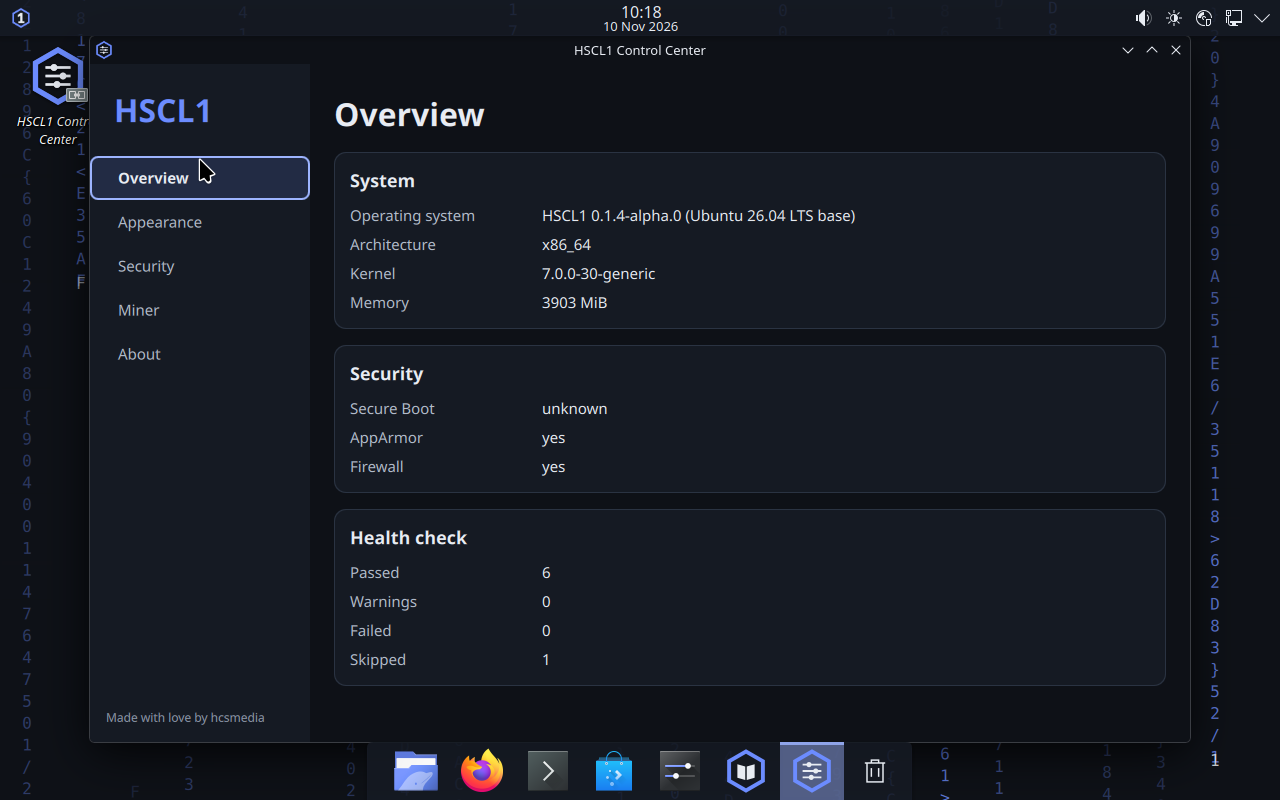
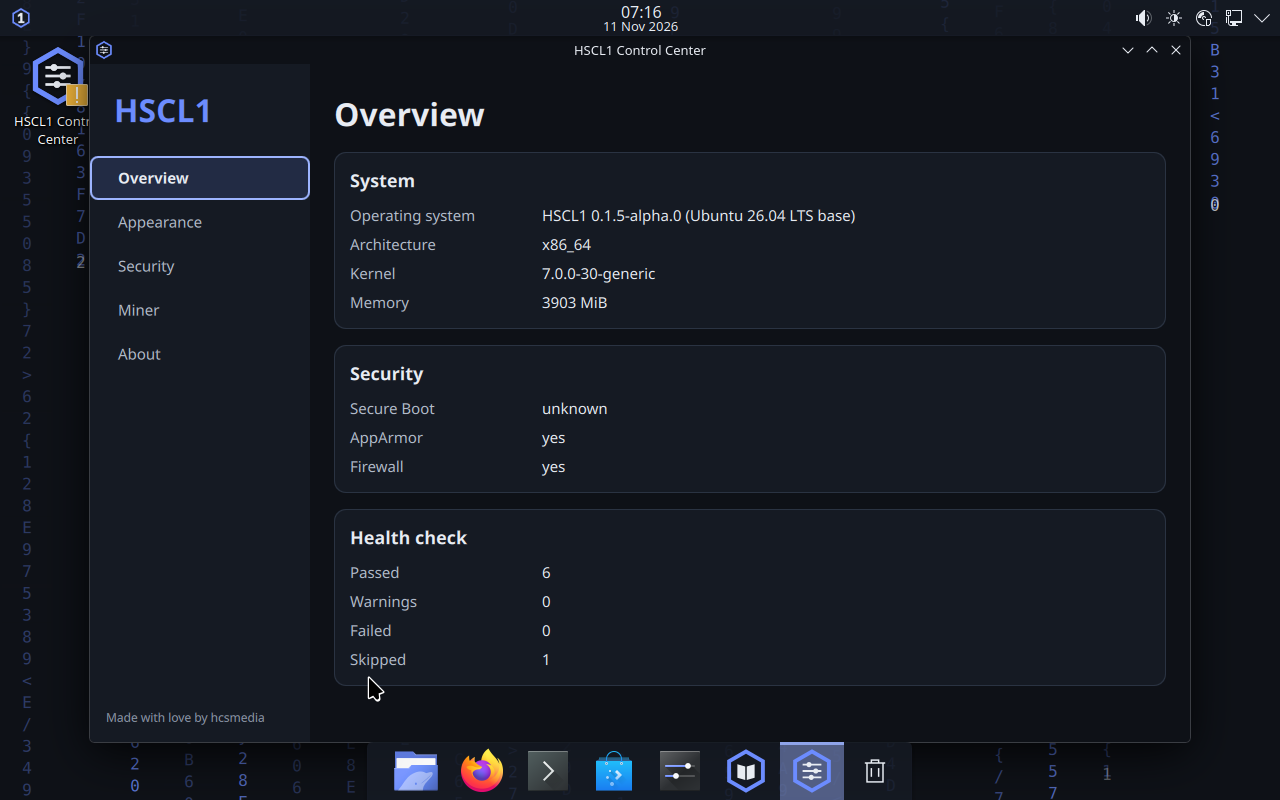
docs: rc8 shows the fixed Miner page; Control Center showcase refreshed

diff --git a/docs/AUTONOMOUS_QUEUE.md b/docs/AUTONOMOUS_QUEUE.md
@@ -62,7 +62,7 @@ booted-artifact evidence missing).
 | Q-57 | Wallpaper preset switching may not take effect: `grid` and `rain` captures render as **starfield** | four visibly different frames from one boot | **CLOSED 2026-11-11** - one rc3 boot, four shots after `hscl appearance wallpaper set` with the real preset ids: aurora 70 293 B / 7 168 colours, starfield 47 377 / 6 064, grid pulse 53 912 / 6 114, midnight rain 182 660 / 23 821 - all visibly different (`artifacts/boot-wallpapers-rc3/wd1`…`wd4`), and the showcase now shows all four. The 2026-11-10 series had typed effect names (`grid`, `rain`), which are not preset ids; `wd5` shows that error. `wallpaper::find` now names the presets that carry an effect (unit test `an_effect_name_points_at_the_presets_that_carry_it`). |
 | Q-58 | `kate` launched from the harness does not reach a visible window | Kate window in the capture with the palette comparison | **OPEN 2026-11-10** - `artifacts/boot-showcase-apps/kc1-kate-osrelease.png` still shows the Konsole command line (`kate /etc/os-release > /dev/null 2>&1`) with no Kate window, so the existing `14_app_kate.png` could not be replaced. |
 | Q-60 | Two-line desktop icon labels wrap left of the icon centre | labels centred under their icons | **OPEN 2026-11-11** - measured on rc4 (`artifacts/boot-visual-rc4/v1-desktop-labels.png`): "HSCL1 Control" / "Center" starts at the label's left edge although `FolderItemDelegate.qml` sets `Text.AlignHCenter`; the label box is wider than the icon, so the centre of the box is not the centre of the icon. Cosmetic, upstream behaviour, not claimed fixed. |
-| Q-62 | the Miner page renders live data or a neutral empty state in a booted capture | neutral empty state in a booted capture | **ROOT CAUSE FOUND 2026-11-11, fix in the tree, capture pending** - the red "Could not read miner data" was not a data problem: `CliBackend::isAllowed()` lacked `miner status` and `miner probe`, so every page request returned `command not allowed` (the CLI itself answers fine in the guest: exit 0, valid JSON, empty stderr - `artifacts/boot-diag-miner/d1-cli-json.png`). rc7 still showed the banner, which is how the real cause was found. Now: `miner status` allowed, `miner probe <host>` allowed for a host matching `^[A-Za-z0-9][A-Za-z0-9.-]{0,63}$`, no duplicate `--json`, and a neutral "No miner configured" line instead of a red error for the empty case. `tst_backend` covers allowed and rejected forms and is now built and run by `scripts/dev/qml-gate.sh`, which previously tested no C++ at all. Next: capture rc8. |
+| Q-62 | the Miner page renders live data or a neutral empty state in a booted capture | neutral empty state and live values in a booted capture (done) | **CLOSED 2026-11-11 on rc8 (`0ea3290c…`)** - the fix was the Control Center's own allowlist: `CliBackend::isAllowed()` refused `miner status` and `miner probe`, so every request ended in `command not allowed` and the page could only show its error banner. With `miner status` allowed and `miner probe <host>` limited to `^[A-Za-z0-9][A-Za-z0-9.-]{0,63}$`, rc8 shows the neutral "No miner configured" line and no red banner (`artifacts/boot-cc-rc8/co2-miner.png`), and the Overview page shows live values (`co1-overview.png`). `tst_backend` covers allowed and rejected forms and is built and run by `scripts/dev/qml-gate.sh` now, so this class of mistake fails a gate. |
 | Q-61 | the killer identified, or 10 starts without a fault | 10 installer starts in a row without a crash, or a documented cause | **NARROWED 2026-11-11: SIGKILL, no core, no OOM** - `kernel.core_pattern=/tmp/cores` plus `ulimit -c unlimited` produced **zero cores** across five deaths (`artifacts/boot-core-probe/s1-core-probe.png`), and each death came 2-3 s after the start, so the wizard is killed rather than crashing in Qt. A second probe ran six starts with `earlyoom` + `systemd-oomd` and six without: all twelve presented a running installer 40 s in, but the wrapper log recorded two `exit 137` deaths, so the fault persists at roughly 1 in 6-12 starts. earlyoom's journal names `calamares` in its avoid list and reports 98.7 % memory available, and `dmesg` has no OOM line - so the machine was not under pressure. Mitigation in `/usr/bin/hscl-calamares`: `KCRASH_DUMP_ONLY=1`, restart on an early signal death, retry on exit 87. Still unknown: who sends the SIGKILL (candidate: KCrash's own repeat-crash path). A future probe must keep separate logs per series. |
 
 ## Next (after Now)

diff --git a/docs/BUILD_LOG.md b/docs/BUILD_LOG.md
@@ -2141,6 +2141,29 @@ otherwise), so the same class of mistake fails the gate in future.
 Not claimed yet: no booted capture shows the fixed page - rc7 predates the allowlist fix, so the showcase image
 `20_control_center_miner.png` was **not** replaced. Q-62 stays open until rc8 has been captured.
 
+### rc8: the Miner page works, and so does the gate (2026-11-11)
+
+| Field | Value |
+|---|---|
+| Artifact | `HSCL1-rc8-amd64.iso` |
+| Bytes | 5 488 771 072 |
[1 lines of base64/hex data omitted]
+| Source commit | `d2f0e37` |
+| Version | `0.1.5-alpha.0` |
+| Gates | `verify-image: all checks passed` |
+
+Booted at 4 GB, Control Center opened through the launcher (`artifacts/boot-cc-rc8`):
+
+- `co1-overview.png` - live values: HSCL1 0.1.5-alpha.0 (Ubuntu 26.04 LTS base), x86_64, kernel 7.0.0-30-generic,
+  3903 MiB, Secure Boot unknown, AppArmor/UFW yes, health check 6 passed / 0 warned / 0 failed / 1 skipped.
+- `co2-miner.png` - **"No miner configured. Nothing is contacted until you add one."** and no red banner. The
+  allowlist fix works; the page now reaches the CLI.
+
+Both became the showcase images `04_control_center_overview.png` and `20_control_center_miner.png` with
+`source_iso: HSCL1-rc8 … 0ea3290c`. Q-62 closed. rc8 carries the same installer wrapper as rc6, so the install and
+LUKS2 evidence recorded for rc6 still applies to the code in this image; no install was re-run for this delta
+(QML, i18n, allowlist, docs).
+
 ### Version state (2026-11-10)
 
 `VERSION` in the tree is **0.1.5-alpha.0** (commit `014b71e`, authored 2026-11-10 22:29, touching VERSION,

diff --git a/docs/CLAIMS.md b/docs/CLAIMS.md
@@ -3,9 +3,10 @@
 Rule: nothing is stated as working without evidence. "unit-tested" means only the code logic ran in tests;
 it is **not** a claim that the feature works on real hardware or in the image.
 
-**Artifact identity.** The current source is `be37e05` (2026-11-11); the newest VM-verified candidate is
-`HSCL1-rc6-amd64.iso` (`4a0d48a3...`, commit `fa911e1`, version `0.1.5-alpha.0`), the first artifact that carries
-**every** VM gate: `verify-image` all checks passed, a LUKS2 install at 8 GB through `/usr/bin/hscl-calamares`
+**Artifact identity.** The current source is `d2f0e37` (2026-11-11); the newest candidate is
+`HSCL1-rc8-amd64.iso` (`0ea3290c...`, commit `d2f0e37`, version `0.1.5-alpha.0`), which adds the Control Center
+allowlist fix and gate (Miner page) to `HSCL1-rc6-amd64.iso` (`4a0d48a3...`, commit `fa911e1`), the first
+artifact that carries **every** VM gate: `verify-image` all checks passed, a LUKS2 install at 8 GB through `/usr/bin/hscl-calamares`
 with unlock (`LUKS volumes open: 1`), `qa_report.py` exit 0, and the Security Lab chain
 (`INSTALL=0`/`COMMIT=0`/`RUN=0`, Nmap 7.991). rc6 also has upright desktop labels, dark Kate and the wallpaper
 preset hint. Two plain 4 GB installs ran on `f1202eb0...` (rc3, upstream launcher) before the wrapper existed; the
